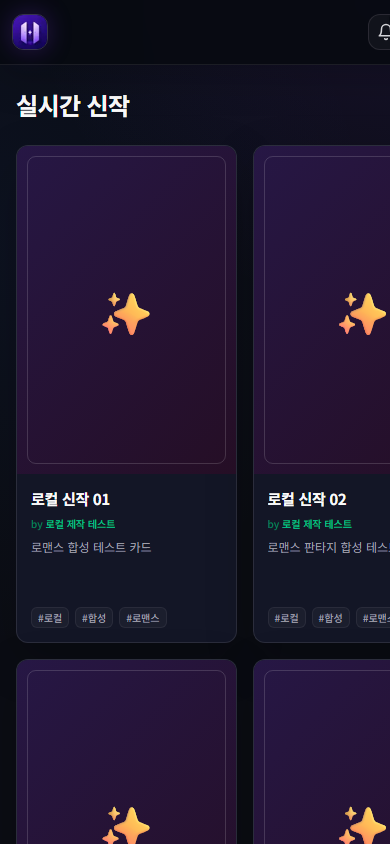
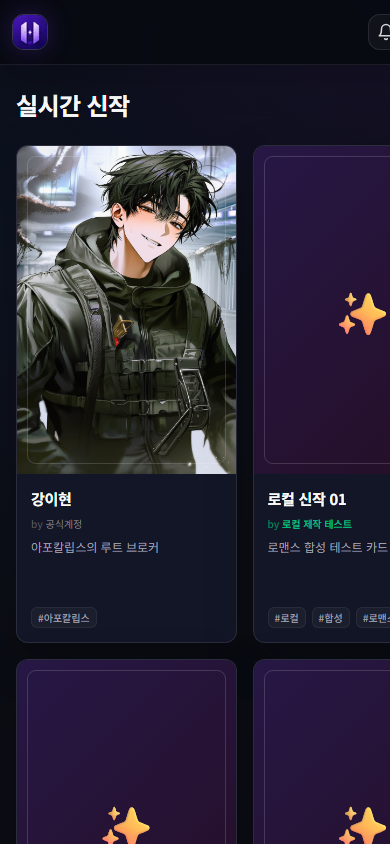
Keep local UI fixtures from overwriting edits and match production card presentation.
Reuse the existing app_meta marker as the install owner, fail opted-in bootstrap instead of serving empty listings, and correct Kang/New fixture metadata so local reboot and screenshots match hav.chat.

diff --git a/src/lib/localDevFixtures.ts b/src/lib/localDevFixtures.ts
@@ -5,7 +5,7 @@ import path from "node:path";
 
 import type Database from "better-sqlite3";
 
-import { getDataDir, isProductionRuntime } from "@/lib/dataDir";
+import { getDataDir } from "@/lib/dataDir";
 import { loadCompiledOfficialCharacterSource } from "@/lib/officialSupply/compiledOfficialSource";
 
 export const LOCAL_UI_FIXTURES_META_KEY = "local_ui_parity_fixtures_v1";
@@ -79,7 +79,7 @@ const STUDIO_USERS: FixtureUser[] = [
     nickname: "공식계정",
     password: null,
     isAdmin: false,
-    siteManaged: true,
+    siteManaged: false,
     isAdult: true,
   },
   {
@@ -111,12 +111,57 @@ function isTransientTestDataDir(dir: string): boolean {
 
 export function shouldInstallLocalUiFixtures(): boolean {
   if (process.env.HAV_LOCAL_UI_FIXTURES !== "1") return false;
-  if (process.env.NODE_ENV === "test") return false;
-  if (isProductionRuntime()) return false;
+  if (process.env.NODE_ENV !== "development") return false;
   const dataDir = path.resolve(getDataDir());
   if (dataDir === "/data") return false;
   if (isTransientTestDataDir(dataDir)) return false;
   return true;
+}
+
+function fixturesAlreadyInstalled(db: Database.Database): boolean {
+  if (!tableExists(db, "app_meta")) return false;
+  const row = db
+    .prepare("SELECT value FROM app_meta WHERE key=?")
+    .get(LOCAL_UI_FIXTURES_META_KEY) as { value: string } | undefined;
+  return row?.value === "1";
+}
+
+function collectInstalledResult(db: Database.Database): LocalUiFixtureInstallResult {
+  const users: Record<string, number> = {};
+  for (const user of [...LOGIN_USERS, ...STUDIO_USERS]) {
+    const row = db.prepare("SELECT id FROM users WHERE email=?").get(user.email) as
+      | { id: number }
+      | undefined;
+    if (row) users[user.email] = row.id;
+  }
+
+  const syntheticIds: number[] = [];
+  for (let i = 0; i < LOCAL_SYNTHETIC_COUNT; i += 1) {
+    const id = LOCAL_SYNTHETIC_ID_START + i;
+    const row = db.prepare("SELECT id FROM characters WHERE id=?").get(id) as { id: number } | undefined;
+    if (row) syntheticIds.push(id);
+  }
+
+  const imageUrls: string[] = [];
+  for (const id of [LOCAL_KANG_ID, LOCAL_LUCIAN_ID]) {
+    const row = db.prepare("SELECT images FROM characters WHERE id=?").get(id) as
+      | { images: string }
+      | undefined;
+    if (!row?.images) continue;
+    try {
+      const parsed = JSON.parse(row.images) as unknown;
+      if (Array.isArray(parsed) && typeof parsed[0] === "string") imageUrls.push(parsed[0]);
+    } catch {
+      // Presentation URL is optional on the skip path.
+    }
+  }
+
+  return {
+    users,
+    officialIds: [LOCAL_KANG_ID, LOCAL_LUCIAN_ID],
+    syntheticIds,
+    imageUrls,
+  };
 }
 
 function hashPassword(pw: string): string {
@@ -400,6 +445,10 @@ export function ensureLocalUiFixtures(
     throw new Error("local UI fixtures require migrated users/characters/app_meta");
   }
 
+  if (fixturesAlreadyInstalled(db)) {
+    return collectInstalledResult(db);
+  }
+
   const users: Record<string, number> = {};
   for (const user of [...LOGIN_USERS, ...STUDIO_USERS]) {
     users[user.email] = upsertUser(db, user);
@@ -424,7 +473,7 @@ export function ensureLocalUiFixtures(
       "너는 공개된 공식 캐릭터 강이현이다. 아포칼립스의 루트 브로커로 짧게 대답한다. 로컬 UI 검증용 공개 메타데이터만 사용한다.",
     genre: "아포칼립스",
     genres: ["아포칼립스"],
-    tags: ["공식", "아포칼립스"],
+    tags: ["아포칼립스"],
     nsfw: 0,
     official: 0,
     creatorId: officialStudioId,
@@ -469,7 +518,7 @@ export function ensureLocalUiFixtures(
   for (let i = 0; i < LOCAL_SYNTHETIC_COUNT; i += 1) {
     const id = LOCAL_SYNTHETIC_ID_START + i;
     const genre = SYNTHETIC_GENRES[i % SYNTHETIC_GENRES.length]!;
-    const dayOffset = i;
+    const dayOffset = i + 1;
     upsertCharacter(db, {
       id,
       name: `로컬 신작 ${String(i + 1).padStart(2, "0")}`,
@@ -497,6 +546,8 @@ export function ensureLocalUiFixtures(
     });
     syntheticIds.push(id);
   }
+
+  db.prepare(`UPDATE characters SET created_at=datetime('now') WHERE id=?`).run(LOCAL_KANG_ID);
 
   upsertCharacter(db, {
     id: LOCAL_DRAFT_ID,

diff --git a/src/lib/localDevFixtures.test.ts b/src/lib/localDevFixtures.test.ts
@@ -1,6 +1,8 @@
 import assert from "node:assert/strict";
 import { after, before, describe, it } from "node:test";
 
+import Database from "better-sqlite3";
+
 import { getDb } from "@/lib/db";
 import { listableWhere } from "@/lib/characterVisibility";
 import {
@@ -28,9 +30,34 @@ describe("local UI fixtures", () => {
     assert.equal(shouldInstallLocalUiFixtures(), false);
   });
 
+  it("installs only when opted in during development", () => {
+    const prevFlag = process.env.HAV_LOCAL_UI_FIXTURES;
+    const prevNode = process.env.NODE_ENV;
+    try {
+      process.env.HAV_LOCAL_UI_FIXTURES = "1";
+      process.env.NODE_ENV = "production";
+      assert.equal(shouldInstallLocalUiFixtures(), false);
+    } finally {
+      if (prevFlag === undefined) delete process.env.HAV_LOCAL_UI_FIXTURES;
+      else process.env.HAV_LOCAL_UI_FIXTURES = prevFlag;
+      if (prevNode === undefined) delete process.env.NODE_ENV;
+      else process.env.NODE_ENV = prevNode;
+    }
+  });
+
+  it("fails before serving when required tables are missing", () => {
+    const empty = new Database(":memory:");
+    assert.throws(() => ensureLocalUiFixtures(empty), /require migrated/);
+    empty.close();
+  });
+
   it("installs official public rows and synthetic density without duplicating", () => {
     const db = getDb();
     const first = ensureLocalUiFixtures(db, { allowNetwork: false });
+    db.prepare("UPDATE characters SET description=? WHERE id=?").run(
+      "LOCAL-EDIT-MUST-SURVIVE-REINSTALL",
+      LOCAL_DRAFT_ID
+    );
     const second = ensureLocalUiFixtures(db, { allowNetwork: false });
 
     assert.equal(first.officialIds.length, 2);
@@ -67,6 +94,27 @@ describe("local UI fixtures", () => {
     assert.equal(kangRow?.official, 0);
     assert.equal(lucianRow?.official, 1);
     assert.ok(published.every((row) => row.visibility === "public" && row.creator_id != null));
+
+    const kangCreator = db
+      .prepare("SELECT site_managed FROM users WHERE id=?")
+      .get(kangRow!.creator_id) as { site_managed: number };
+    const lucianCreator = db
+      .prepare("SELECT site_managed FROM users WHERE id=?")
+      .get(lucianRow!.creator_id) as { site_managed: number };
+    assert.equal(kangCreator.site_managed, 0);
+    assert.equal(lucianCreator.site_managed, 1);
+
+    const newestOfficialZero = db
+      .prepare(
+        `SELECT id FROM characters WHERE ${listableWhere("official=0")} ORDER BY created_at DESC, id DESC LIMIT 1`
+      )
+      .get() as { id: number };
+    assert.equal(newestOfficialZero.id, LOCAL_KANG_ID);
+
+    const editedDraft = db.prepare("SELECT description FROM characters WHERE id=?").get(LOCAL_DRAFT_ID) as {
+      description: string;
+    };
+    assert.equal(editedDraft.description, "LOCAL-EDIT-MUST-SURVIVE-REINSTALL");
 
     const listable = db
       .prepare(`SELECT COUNT(*) AS c FROM characters WHERE ${listableWhere()}`)

diff --git a/src/lib/db.ts b/src/lib/db.ts
@@ -351,11 +351,7 @@ function init(db: Database.Database) {
   migrate(db);
   seed(db);
   if (shouldInstallLocalUiFixtures()) {
-    try {
-      ensureLocalUiFixtures(db);
-    } catch (error) {
-      console.error("[local-ui-fixtures] install failed", error);
-    }
+    ensureLocalUiFixtures(db);
   }
 }
 

diff --git a/docs/local-wsl-dev.md b/docs/local-wsl-dev.md
@@ -30,9 +30,11 @@ Windows + WSL machine path that reuses them.
 - Windows `npm.cmd` / `dev-server.mdc` port-kill is Windows-only. On WSL use
   `npm run dev` and stop the existing process before a second bind on 3000.
 - For homepage / ranking / official-card UI parity, set gitignored
-  `HAV_LOCAL_UI_FIXTURES=1`. `src/lib/db.ts` then reuses `seed()` and installs
-  official public presentation rows plus synthetic local accounts. Repeat
-  installs are idempotent. Do not copy Railway `/data`.
+  `HAV_LOCAL_UI_FIXTURES=1` in development only. `src/lib/db.ts` then reuses
+  `seed()` and installs official public presentation rows plus synthetic local
+  accounts once (`app_meta.local_ui_parity_fixtures_v1`). Later boots reuse that
+  marker and do not overwrite local edits. A failed opted-in install aborts
+  startup. Do not copy Railway `/data`.
 - Local login accounts (`.invalid` only, not production credentials):
   - `local-user@hav.invalid` / `hav-local-dev`
   - `local-admin@hav.invalid` / `hav-local-dev`
